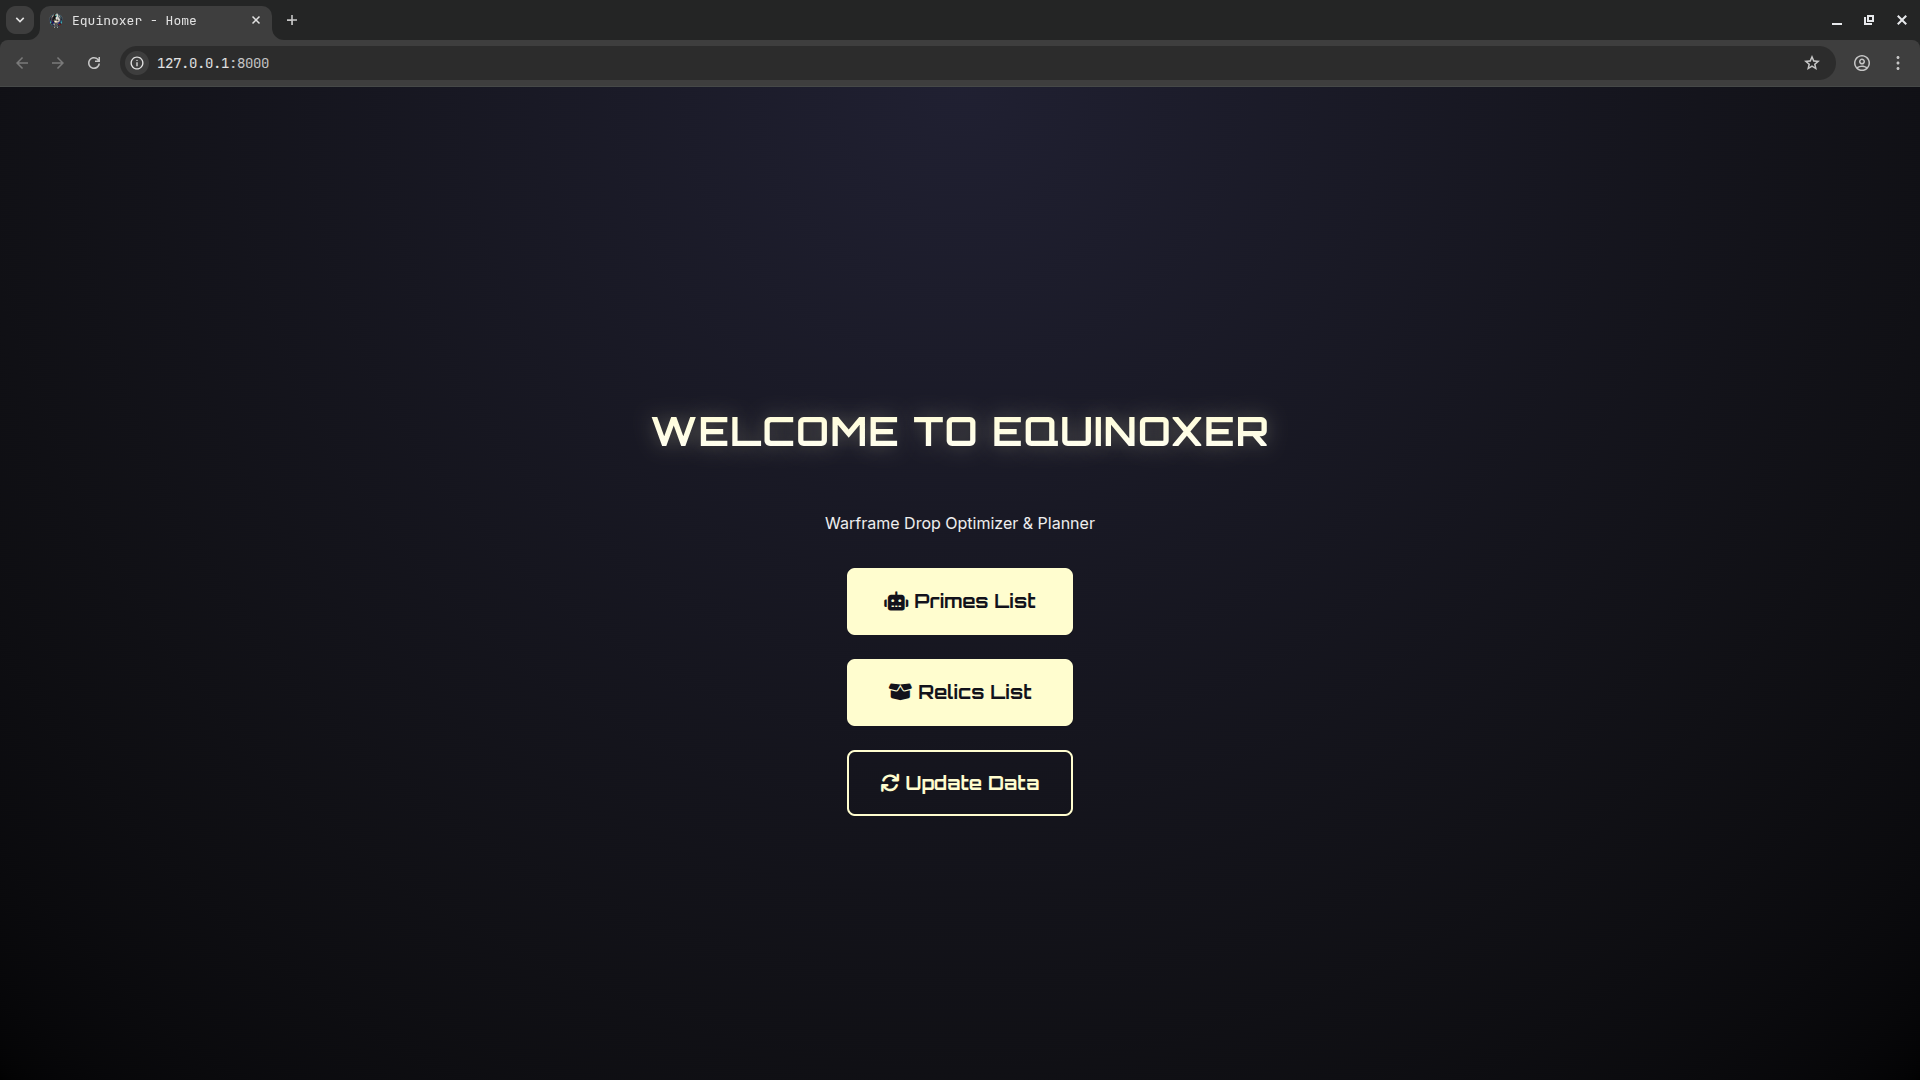
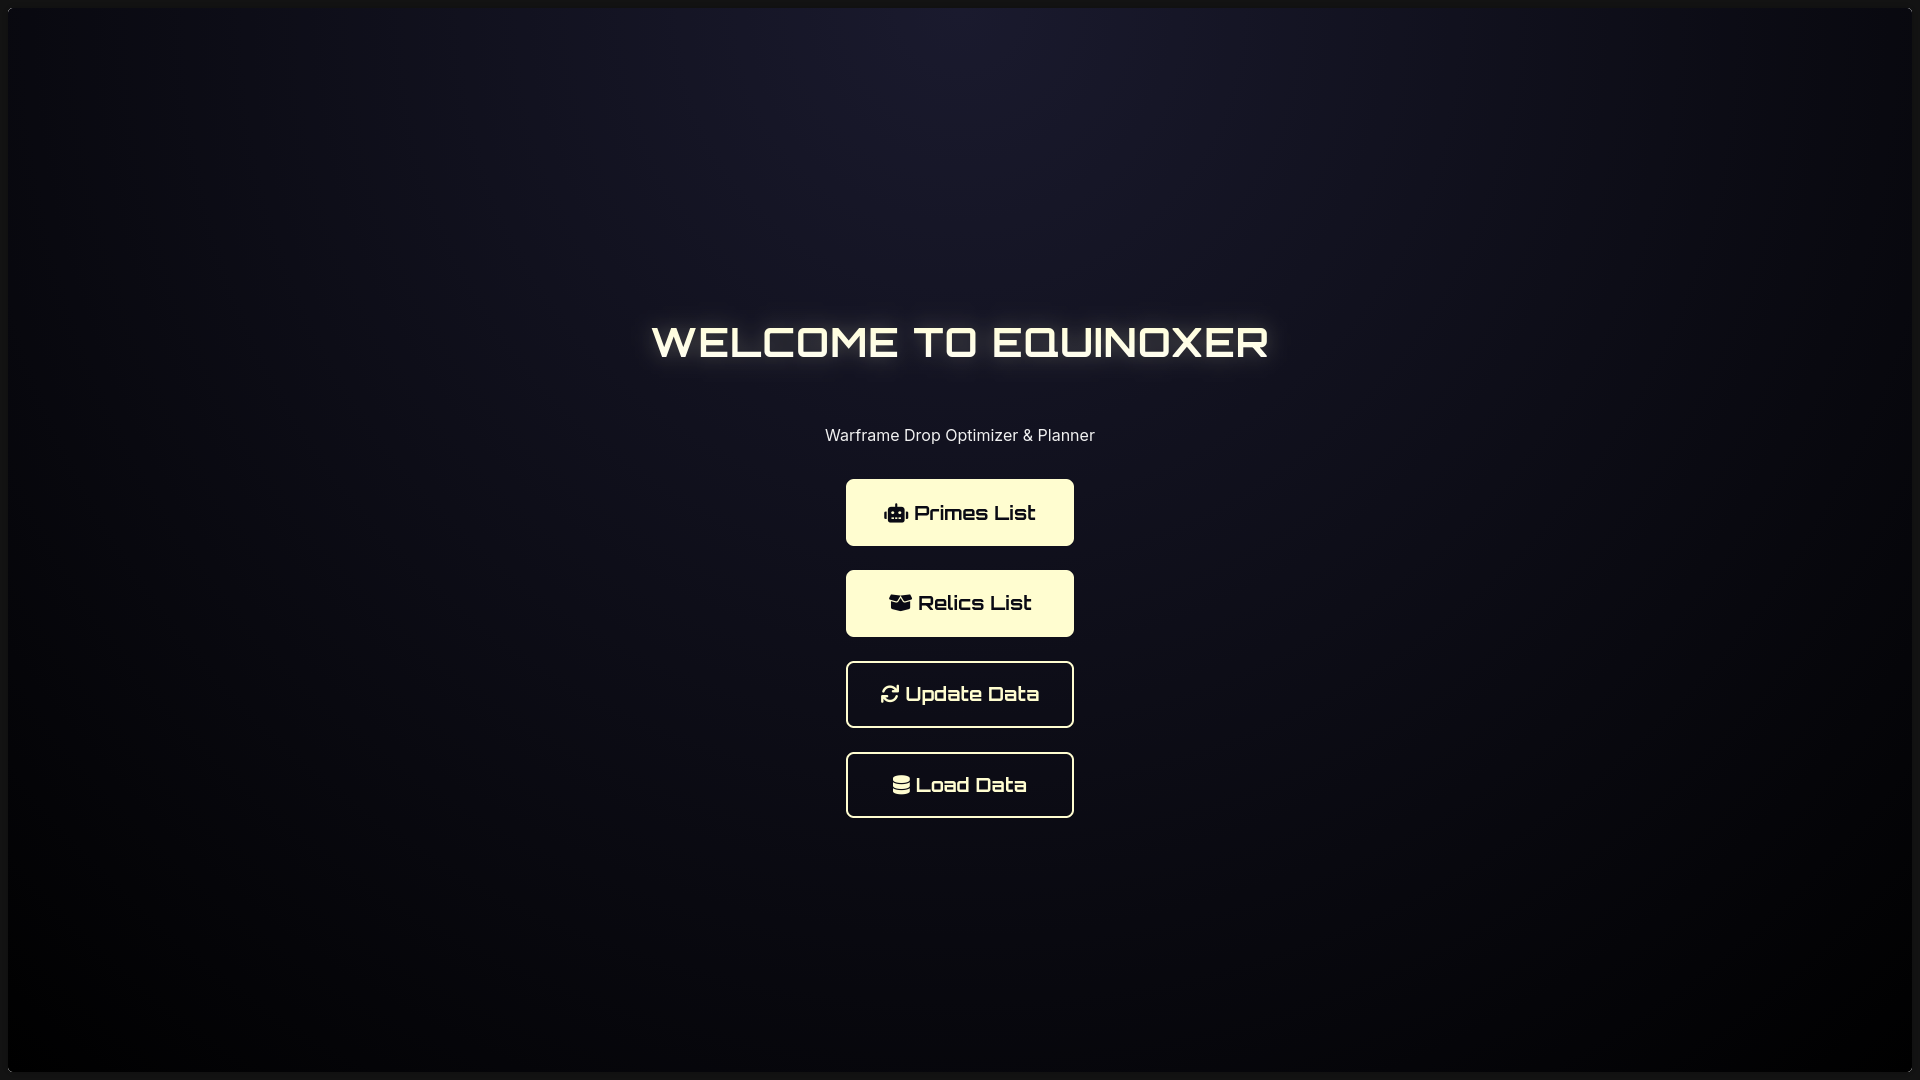
docs(readme): 📚 Melhorias finais na documentação e prints

diff --git a/README.md b/README.md
@@ -1,17 +1,19 @@
 # 🌑🌕 Equinoxer
 
 ![Theme](https://img.shields.io/badge/Theme-Warframe-lightgrey?style=for-the-badge&labelColor=black)
-![Framework](https://img.shields.io/badge/Framework-Symfony-lightgrey?style=for-the-badge&logo=symfony&logoColor=white&labelColor=black)
-![Language](https://img.shields.io/badge/Made_with-PHP-lightgrey?style=for-the-badge&logo=php&logoColor=white&labelColor=black)
+![Framework](https://img.shields.io/badge/Framework-Symfony_7.3-lightgrey?style=for-the-badge&logo=symfony&logoColor=white&labelColor=black)
+![Language](https://img.shields.io/badge/Made_with-PHP_8.3+-lightgrey?style=for-the-badge&logo=php&logoColor=white&labelColor=black)
+![Search](https://img.shields.io/badge/DB-Meilisearch-lightgrey?style=for-the-badge&logo=meilisearch&logoColor=white&labelColor=black)
+![Docker](https://img.shields.io/badge/Docker-Ready-lightgrey?style=for-the-badge&logo=docker&logoColor=white&labelColor=black)
 ![License](https://img.shields.io/badge/License-MIT-lightgrey?style=for-the-badge&labelColor=black)
-![Status](https://img.shields.io/badge/Status-Functional-lightgrey?style=for-the-badge&labelColor=black)
 ![Last Commit](https://img.shields.io/github/last-commit/EduLoboM/Equinoxer?style=for-the-badge&logo=github&color=lightgrey&labelColor=black)
 ![Stars](https://img.shields.io/github/stars/EduLoboM/Equinoxer?style=for-the-badge&color=lightgrey&logo=github&labelColor=black)
 ![Forks](https://img.shields.io/github/forks/EduLoboM/Equinoxer?style=for-the-badge&color=lightgrey&logo=github&labelColor=black)
+![CI](https://img.shields.io/github/actions/workflow/status/EduLoboM/Equinoxer/main.yml?style=for-the-badge&logo=github&label=CI&labelColor=black)
 
 > **Uma plataforma otimizada para rastreamento de drops e relíquias de Warframe.**
 
-**Equinoxer** é uma aplicação web desenvolvida em **PHP/Symfony**, criada para fornecer aos jogadores de Warframe uma maneira rápida, limpa e eficiente de planejar seus farms de itens Prime com o fator de eficiência que te da a melhor missão para farmar uma relíquia específica com base na chance de drop e tempo médio da rotação te informando a rotação mais eficiente para farmar a relíquia.
+**Equinoxer** é uma aplicação web desenvolvida em **PHP 8.3+ / Symfony 7.3**, criada para fornecer aos jogadores de Warframe uma maneira rápida, limpa e eficiente de planejar seus farms de itens Prime com o fator de eficiência que te da a melhor missão para farmar uma relíquia específica com base na chance de drop e tempo médio da rotação te informando a rotação mais eficiente para farmar a relíquia.
 
 A interface utiliza uma estética moderna "Sci-Fi" com cores neon (Azul/Amarelo) inspirada na identidade visual do jogo e no warframe equinox prime, focando em usabilidade e performance.
 
@@ -21,10 +23,10 @@ O projeto resolve o problema de navegar por wikis desatualizadas ou lentas, cent
 
 | Feature de Jogo | Tecnologia / Implementação | Descrição |
 | :--- | :--- | :--- |
-| **Busca de Relíquias** | `Cache System` | Listagem completa de relíquias com busca instantânea e filtragem por era (Lith, Meso, Neo, Axi). |
-| **Cálculo de Eficiência** | `Math Logic` | Algoritmo que determina a melhor missão para farmar uma relíquia específica com base na chance de drop e tempo médio. |
+| **Busca de Relíquias** | `Meilisearch` | Listagem completa de relíquias com busca instantânea e filtragem por era (Lith, Meso, Neo, Axi). |
+| **Cálculo de Eficiência** | `DropEfficiencyCalculator` | Algoritmo que determina a melhor missão para farmar uma relíquia específica com base na chance de drop e tempo médio. |
 | **Primes Tracker** | `Data Aggregation` | Visualização de todos os Warframes e armas Prime, com links diretos para as relíquias de seus componentes. |
-| **Atualização Automática** | `Console Command` | Sistema de comando (`app:update-data`) que sincroniza o banco de dados local com a API `warframestat.us`. |
+| **Atualização Automática** | `Console Command` | Sistema de comandos (`app:update-data`, `app:load-data`) que sincroniza o banco de dados com a API `warframestat.us`. |
 
 ## 🗺 Roadmap Futuro
 
@@ -35,78 +37,160 @@ O projeto resolve o problema de navegar por wikis desatualizadas ou lentas, cent
 
 ## 🏗 Arquitetura do Sistema
 
-O fluxo de dados segue uma estrutura MVC padrão do Symfony:
+O fluxo de dados segue uma estrutura MVC padrão do Symfony com Meilisearch como search engine:
 
 ```mermaid
 graph LR
 
     User["Usuário"]:::user --> Browser[Browser]:::client
-    Browser --> Controller["Controller (Symfony)"]:::process
+    Browser --> Nginx["Nginx"]:::proxy
+    Nginx --> Controller["Controller (Symfony)"]:::process
     
-    subgraph Backend
-        Controller --> Service["Services (Data Loader)"]:::logic
-        Service --> API["Warframe API"]:::external
-        Service --> Cache["Local JSON / Cache"]:::storage
+    subgraph Docker["Docker Compose"]
+        subgraph Backend["PHP-FPM"]
+            Controller --> Service["Services"]:::logic
+            Service --> JsonLoader["JsonLoader"]:::data
+        end
+        JsonLoader --> Meilisearch["Meilisearch"]:::search
     end
 
     Controller --> Template["Twig Templates"]:::view
-    Template --> Browser
+    Template --> Nginx
 ```
 
 ## 🚀 Como Executar
 
-### Requisitos
-
-* **PHP** (versão 8.1 ou superior)
-* **Composer**
-* **Symfony CLI**
-
-### Instalação
+### Com Docker (Recomendado)
 
 ```bash
 git clone https://github.com/EduLoboM/Equinoxer.git
 cd Equinoxer
+
+# Suba os containers
+docker compose up -d
+
+# Carregue os dados no Meilisearch
+docker compose exec app php bin/console app:update-data
+docker compose exec app php bin/console app:load-data
+
+# Acesse em http://localhost:8080
 ```
 
-### Configuração e Execução
+### Sem Docker (Desenvolvimento Local)
 
-1.  Instale as dependências:
-    ```bash
-    composer install
-    ```
+#### Requisitos
 
-2.  (Opcional) Atualize os dados locais:
-    ```bash
-    php bin/console app:update-data
-    ```
+* **PHP** 8.3+
+* **Composer**
+* **Symfony CLI**
+* **Meilisearch** rodando em `localhost:7700`
 
-3.  Inicie o servidor:
-    ```bash
-    symfony server:start
-    ```
-    Ou use o servidor embutido do PHP:
-    ```bash
-    php -S 127.0.0.1:8000 -t public
-    ```
+#### Instalação
+
+```bash
+git clone https://github.com/EduLoboM/Equinoxer.git
+cd Equinoxer
+composer install
+
+# Configure as variáveis de ambiente
+cp .env .env.local
+# Edite .env.local com MEILISEARCH_URL e MEILISEARCH_KEY
+
+# Atualize e carregue os dados
+php bin/console app:update-data
+php bin/console app:load-data
+
+# Inicie o servidor
+symfony server:start
+```
 
 ## 📚 Estrutura do Projeto
 
-* `src/Command/UpdateDataCommand.php`: Comando para baixar e normalizar dados da API.
-* `src/Controller`: Controladores para páginas de Home, Primes e Relíquias.
-* `src/Service/WarframeLoot.php`: Lógica de busca e cálculo de drop tables.
-* `templates/`: Arquivos de visualização Twig com tema customizado.
-* `public/css/main.css`: Estilização global (Dark Theme + Neon).
+```
+src/
+├── Command/
+│   ├── LoadDataCommand.php       # Carrega dados no Meilisearch
+│   └── UpdateDataCommand.php     # Baixa dados da API warframestat.us
+├── Config/
+│   └── MeilisearchConfig.php     # Configuração do cliente Meilisearch
+├── Controller/
+│   ├── HomeController.php        # Página inicial
+│   ├── PrimeController.php       # Listagem e detalhes de Primes
+│   ├── RelicController.php       # Detalhes de Relíquias
+│   └── RelicListController.php   # Listagem de Relíquias
+├── DTO/
+│   ├── DropEfficiencyResult.php  # Resultado do cálculo de eficiência
+│   ├── MissionDrop.php           # Dados de drop de missão
+│   └── RelicDrop.php             # Dados de drop de relíquia
+├── Service/
+│   ├── DropEfficiencyCalculator.php  # Cálculo de eficiência de farm
+│   ├── JsonLoader.php                # Interface com Meilisearch
+│   └── WarframeLoot.php              # Lógica de drop tables
+└── ValueObject/
+    └── WarframeItemName.php      # Value object para nomes de itens
+```
 
 ## 🧪 Testes
 
-*   **Testes de Sistema (Panther):** Simulam a interação real do usuário no navegador (Chrome/Chromium), verificando fluxos de navegação, busca e atualização de dados.
-*   **Testes de Integração (WebTestCase):** Validam a resposta HTTP, rotas, renderização de templates e acessibilidade de elementos chave sem necessidade de um browser completo.
-*   **Testes Unitários (PHPUnit):** Cobrem isoladamente a lógica de negócios em Services e Controllers, garantindo que cálculos de eficiência e parsing de JSON funcionem corretamente.
+O projeto possui uma suíte completa de testes organizados em 4 categorias:
 
-Para rodar os testes:
+| Tipo | Descrição | Tecnologia |
+| :--- | :--- | :--- |
+| **Unit** | Testes isolados de Services, DTOs e ValueObjects | PHPUnit |
+| **Integration** | Testes de rotas HTTP e renderização de templates | WebTestCase |
+| **System** | Testes E2E simulando interação real do usuário | Panther + Chrome |
+| **Api** | Testes que dependem de chamadas à API externa | PHPUnit (excluídos no CI) |
+
+### Executar Testes
+
 ```bash
-php bin/phpunit
+# Todos os testes (exceto API)
+php bin/phpunit --exclude-group api
+
+# Apenas testes unitários
+php bin/phpunit tests/Unit
+
+# Apenas testes de integração
+php bin/phpunit tests/Integration
+
+# Com cobertura de código
+php bin/phpunit --coverage-text
 ```
+
+### Análise Estática
+
+```bash
+# PHPStan (Level max)
+composer analyse
+
+# PHP-CS-Fixer
+vendor/bin/php-cs-fixer fix --dry-run --diff
+```
+
+## 🔄 CI/CD
+
+O projeto utiliza **GitHub Actions** com o seguinte pipeline:
+
+1. **Setup** - PHP 8.4, Meilisearch service
+2. **Install** - Composer dependencies
+3. **Prepare** - Carregar dados no Meilisearch
+4. **Style** - PHP-CS-Fixer (dry-run)
+5. **Analyse** - PHPStan (level max)
+6. **Test** - PHPUnit com cobertura
+
+## 🔧 Destaques Técnicos
+
+### HTTP Cache Headers
+
+Todas as páginas públicas utilizam cache HTTP com `SharedMaxAge` (1h para CDN) e `MaxAge` (5min para browser), permitindo escalabilidade sem infraestrutura adicional:
+
+### Meilisearch como Database + Search Engine
+
+Uso do Meilisearch tanto como banco de dados primário quanto como search engine, eliminando a necessidade de um RDBMS tradicional:
+- **Armazenamento de documentos** JSON-native para primes e relics
+- **Busca full-text** com typo-tolerance
+- **Filtragem instantânea** por atributos (tier, era)
+- **Paginação eficiente** com limite de 10k documentos
 
 ## 📸 Screenshots
 
